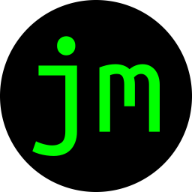
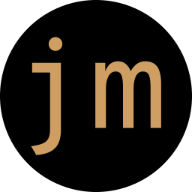
Update design, again.

Changed region(s): [[0.4688, 0.3125, 0.8438, 0.6875], [0.1562, 0.1875, 0.4062, 0.8125]]

diff --git a/main.css b/main.css
@@ -1,6 +1,6 @@
 /*========== GENERAL/HOME =============*/
 body {
-    background-color: #17030e;
+    background-color: #121212 ;
     color: #FFF7E8; /*This color is called Cosmic Latte, haha*/
     
     font-family: 'Courier New', Courier, monospace;
@@ -12,7 +12,7 @@ body {
 }
 
 .imp {
-    color: #2BAB27;
+    color: #c1432e;
 }
 
 hr {
@@ -27,7 +27,7 @@ hr {
 }
 
 a {
-    color: #2BAB27;
+    color: #c1432e;
     display:inline-block
 }
 
@@ -97,7 +97,7 @@ li {
 
 .active {
     text-decoration: none;
-    color: #2BAB27;
+    color: #ce9e62;
 }
 
 
@@ -114,12 +114,12 @@ li {
 .section-header {
     font-family: 'Space Mono', monospace;
     font-size: 1.5em;
-    color: #06a10b;
+    color: #ce9e62;
 }
 
 .res-imp {
     font-size: 1.15em;
-    color: #2BAB27;
+    color: #c1432e;
 }
 
 /*========== PROJECTS =============*/
